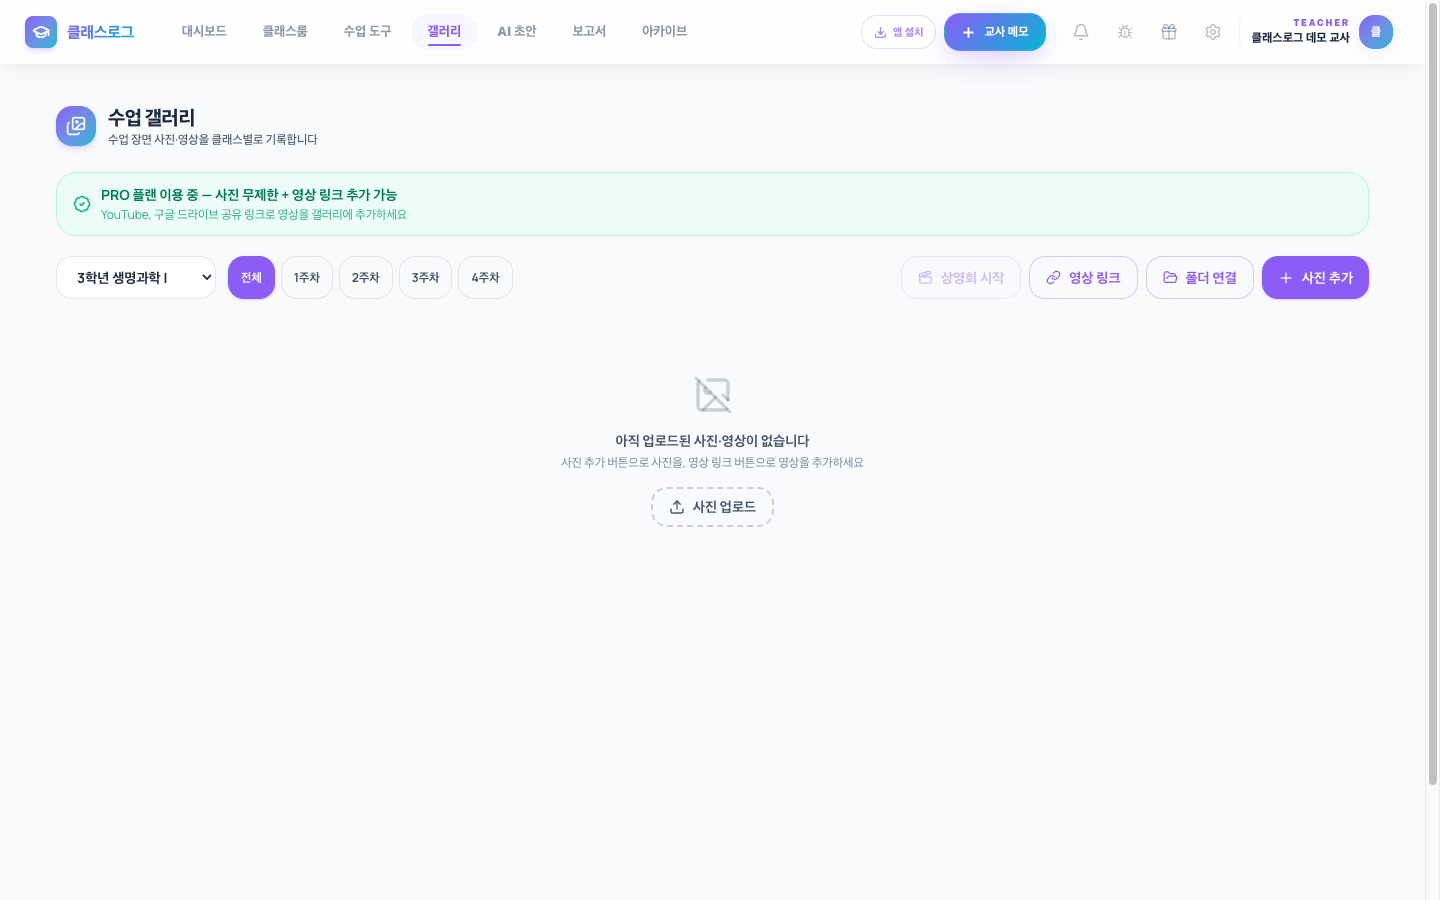
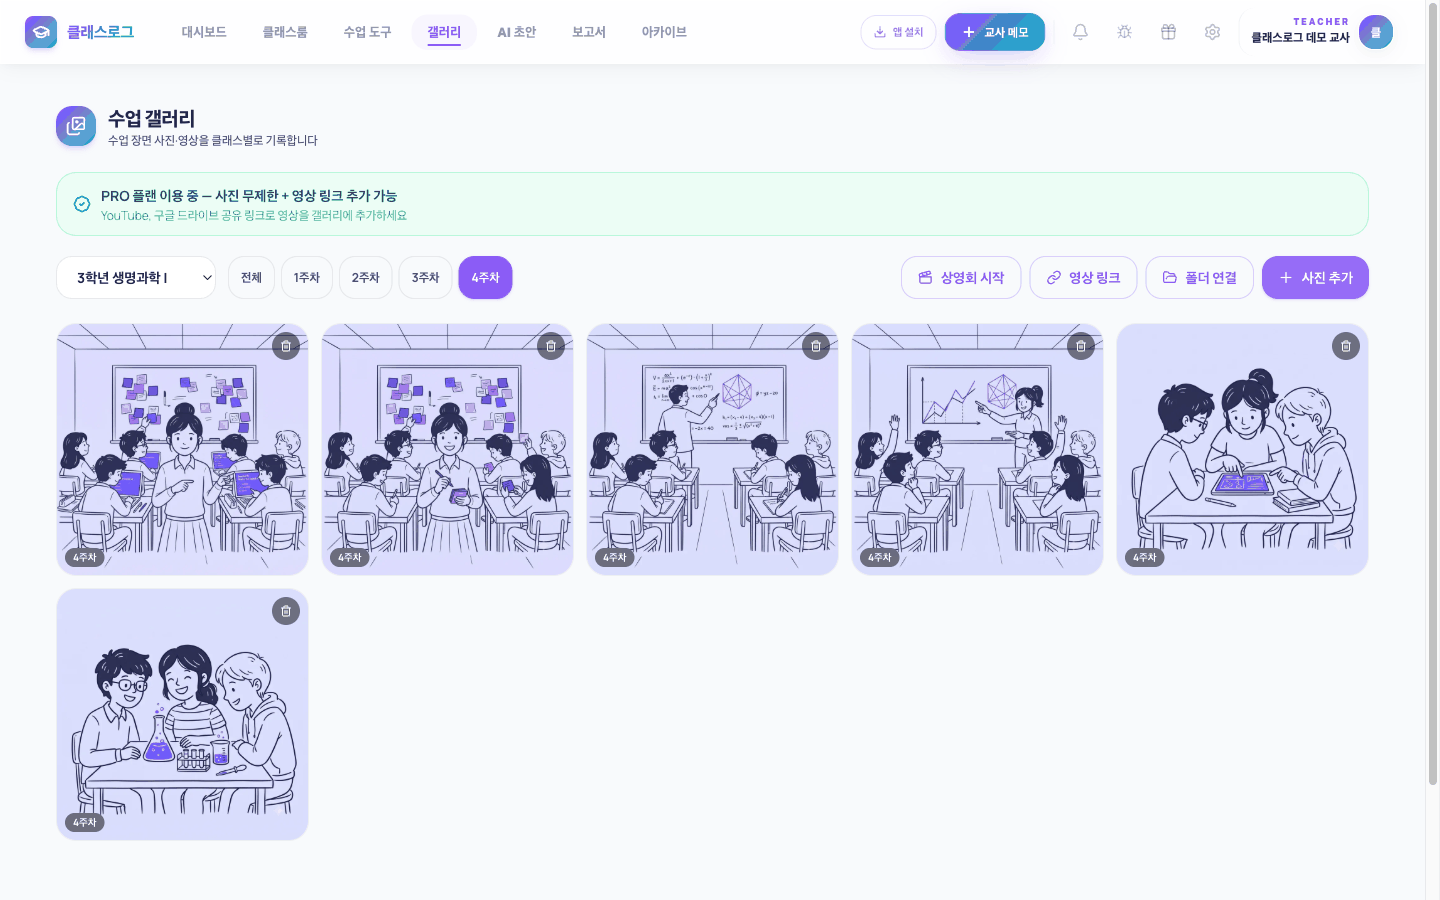
feat: 랜딩페이지 수업 도구 미리보기 시각 보강 및 갤러리 샘플 스크린샷 반영
- 미리보기 프레임에 글로우/그림자 추가로 8개 도구 공통 시각 강화
- 수업 갤러리 스크린샷을 빈 화면에서 샘플 이미지 6장 채운 화면으로 교체

diff --git a/src/pages/Landing.tsx b/src/pages/Landing.tsx
@@ -581,21 +581,27 @@ const Landing = () => {
             </div>
 
             {/* 선택된 도구의 실제 화면 미리보기 */}
-            <div className="rounded-[16px] border border-writer-mist bg-white overflow-hidden shadow-sm">
-              <div className="flex items-center gap-1.5 px-4 py-3 border-b border-writer-mist bg-writer-lavender/20">
-                <span className="w-2.5 h-2.5 rounded-full bg-writer-mist" />
-                <span className="w-2.5 h-2.5 rounded-full bg-writer-mist" />
-                <span className="w-2.5 h-2.5 rounded-full bg-writer-mist" />
-              </div>
-              <motion.img
-                key={teachingTools[activeTool].image}
-                initial={{ opacity: 0 }}
-                animate={{ opacity: 1 }}
-                transition={{ duration: 0.25 }}
-                src={teachingTools[activeTool].image}
-                alt={teachingTools[activeTool].title}
-                className="w-full h-auto block"
+            <div className="relative">
+              <div
+                aria-hidden="true"
+                className="absolute -inset-5 -z-10 rounded-[28px] bg-gradient-to-br from-writer-iris/25 via-writer-orchid/20 to-transparent blur-2xl"
               />
+              <div className="rounded-[16px] border border-writer-mist bg-white overflow-hidden shadow-xl shadow-writer-iris/15 ring-1 ring-black/5">
+                <div className="flex items-center gap-1.5 px-4 py-3 border-b border-writer-mist bg-writer-lavender/20">
+                  <span className="w-2.5 h-2.5 rounded-full bg-writer-mist" />
+                  <span className="w-2.5 h-2.5 rounded-full bg-writer-mist" />
+                  <span className="w-2.5 h-2.5 rounded-full bg-writer-mist" />
+                </div>
+                <motion.img
+                  key={teachingTools[activeTool].image}
+                  initial={{ opacity: 0 }}
+                  animate={{ opacity: 1 }}
+                  transition={{ duration: 0.25 }}
+                  src={teachingTools[activeTool].image}
+                  alt={teachingTools[activeTool].title}
+                  className="w-full h-auto block"
+                />
+              </div>
             </div>
           </div>
           <p className="text-center text-[11px] text-writer-slate/70 mb-6">
